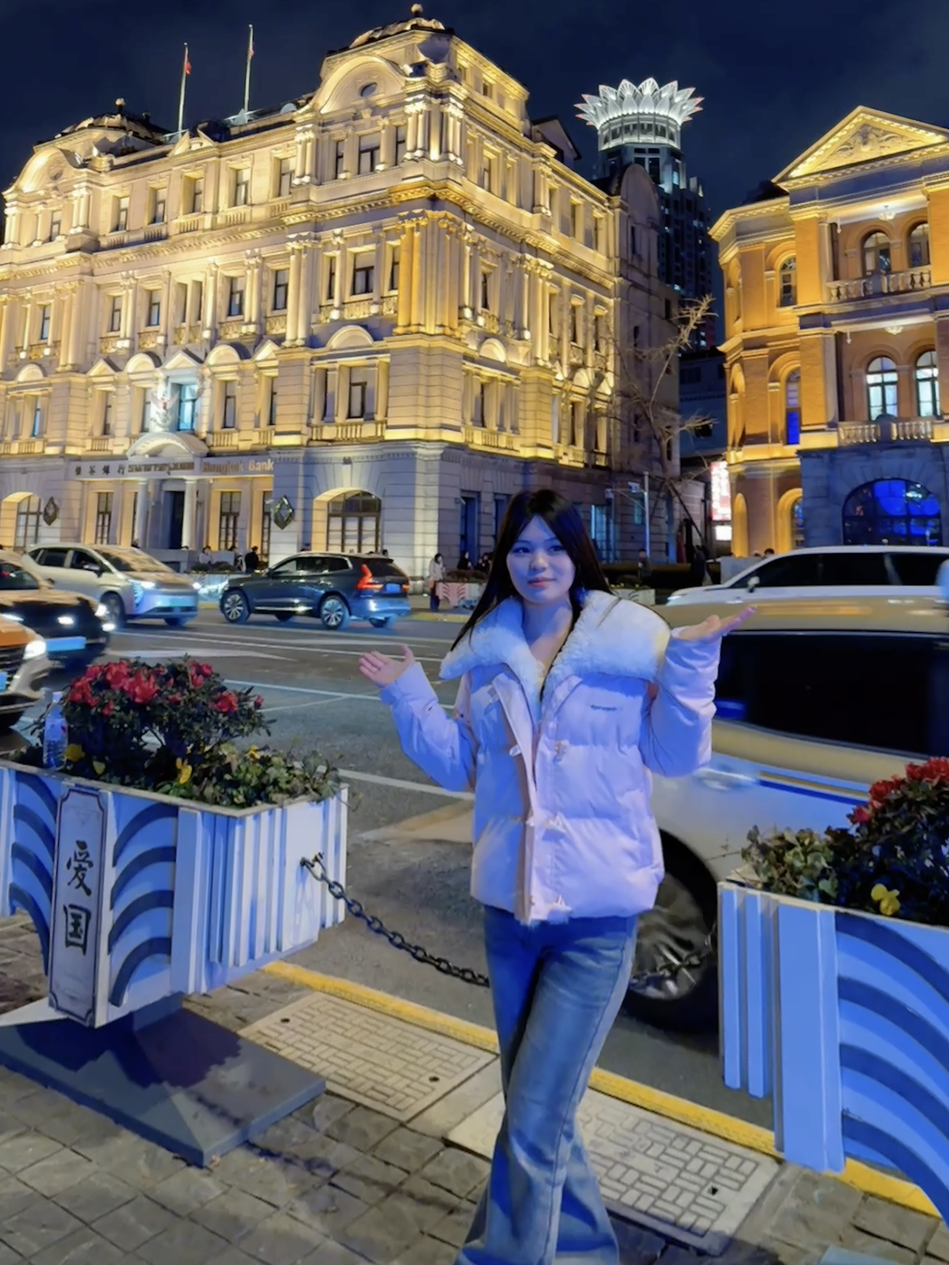
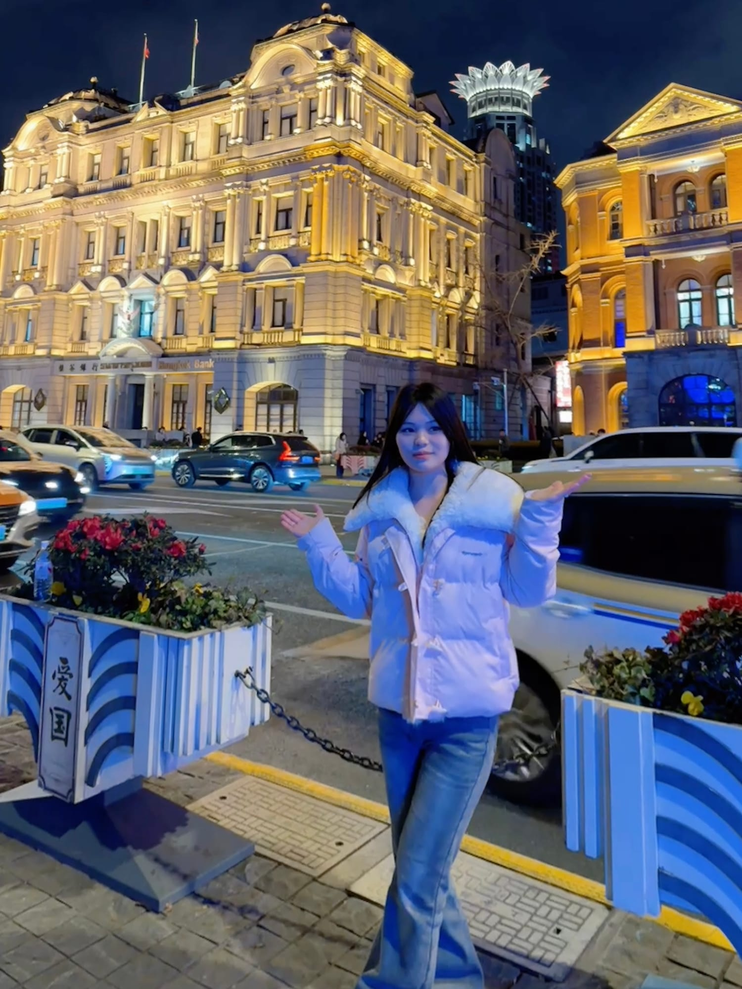
publish from local admin 2026-11-16 22:54

diff --git a/index.html b/index.html
@@ -1,1 +1,1 @@
-<!DOCTYPE html><html lang="zh-CN"><head><meta charset="utf-8"><meta name="viewport" content="width=device-width,initial-scale=1"><link rel="icon" type="image/svg+xml" href="/favicon.svg"><link rel="sitemap" href="/sitemap-index.xml"><link rel="alternate" type="application/rss+xml" title="李先森的个人网站" href="https://itfeier.cn/rss.xml"><meta name="generator" content="Astro v7.4.0"><meta name="theme-color" content="#f7f5f2"><link rel="canonical" href="https://itfeier.cn/"><title>李先森的个人网站</title><meta name="description" content="内容创作者 · 独立开发者 · 摄影爱好者。记录做产品的过程，也记录路上的光。"><meta property="og:type" content="website"><meta property="og:url" content="https://itfeier.cn/"><meta property="og:title" content="李先森的个人网站"><meta property="og:description" content="内容创作者 · 独立开发者 · 摄影爱好者。记录做产品的过程，也记录路上的光。"><meta name="twitter:card" content="summary"><link rel="stylesheet" href="/_astro/SiteLayout.CxbvPPfI.css"></head><body><header class="site-header" id="top"><div class="wrap header-inner"><a class="brand" href="/"><span class="brand-cn">李先森的个人网站</span><span class="brand-en">LI XIANSEN · JOURNAL</span></a><nav class="nav-desktop" aria-label="主导航"><a href="/" class="active" aria-current="page">首页</a><a href="/posts/">帖子</a><a href="/videos/">视频</a><a href="/albums/">相册</a><a href="/about/">关于</a></nav><details class="nav-mobile"><summary aria-label="打开导航菜单">菜单 <span class="burger" aria-hidden="true"></span></summary><nav aria-label="移动端导航"><a href="/" class="active" aria-current="page">首页</a><a href="/posts/">帖子</a><a href="/videos/">视频</a><a href="/albums/">相册</a><a href="/about/">关于</a></nav></details></div></header><main class="main-wide"><section class="hero wrap"><div class="hero-main"><p class="eyebrow">LI XIANSEN · JOURNAL / EST. 2012</p><h1>在产品和生活的缝隙里，持续写一点东西。</h1><p class="hero-sub">内容创作者 · 独立开发者 · 摄影爱好者。记录做产品的过程，也记录路上的光。</p></div><aside class="hero-side" aria-label="站点数据"><div class="portrait"><img src="/images/profile/avatar/mwjco0sb-ery1hy.png" alt="李先森 的头像"></div><dl class="stats"><div><dt>帖子</dt><dd>1</dd></div><div><dt>视频</dt><dd>1</dd></div><div><dt>相册</dt><dd>1</dd></div><div><dt>写作自</dt><dd>2012</dd></div></dl></aside></section><section class="section wrap" aria-labelledby="hot-title"><div class="section-head"><div><p class="eyebrow">01 / FEATURED</p><h2 id="hot-title">热门帖子</h2></div><a class="more" href="/posts/">全部帖子 →</a></div><div class="post-grid"><article class="post-card"><a href="/posts/13213/"><div class="art-cover art-mono" role="img" aria-label="三大什么的库拉索尼空对空"><svg viewBox="0 0 400 260" preserveAspectRatio="xMidYMid slice" aria-hidden="true" focusable="false"><defs><linearGradient id="art-mono-0-18od1t9" x1="0" y1="0" x2="1" y2="1"><stop offset="0%" stop-color="#e6e6e3"></stop><stop offset="100%" stop-color="#a9a9a4"></stop></linearGradient></defs><rect width="400" height="260" fill="url(#art-mono-0-18od1t9)"></rect><g><circle cx="200" cy="130" r="86" fill="#3f4548" opacity="0.5"></circle><circle cx="200" cy="130" r="56" fill="#fff" opacity="0.42"></circle><path d="M0 218 H400" stroke="#3f4548" stroke-width="1" opacity="0.5"></path><path d="M0 236 H400" stroke="#3f4548" stroke-width="1" opacity="0.35"></path></g></svg></div><h3>三大什么的库拉索尼空对空</h3><p class="excerpt">快捷键开发商尽可能的卡送监督卡</p><div class="card-foot"><span class="tags"></span><time datetime="2026-11-16T00:00:00.000Z">2026年11月16日</time></div></a></article></div></section><section class="section wrap" aria-labelledby="latest-title"><div class="section-head"><div><p class="eyebrow">02 / RECENT</p><h2 id="latest-title">最近上传</h2></div><a class="more" href="/videos/">更多视频 →</a></div><div class="media-grid"><article class="media-card"><a href="/images/videos/v-20261116-2210-0xv/mwjcc6uc-950jet.mp4" target="_blank" rel="noopener noreferrer"><div class="media-cover"><img src="/images/videos/v-20261116-2210-0xv/mwjccjk6-ic8pr9.png" alt="1" loading="lazy"><span class="play" aria-hidden="true">▶</span><span class="duration">24s</span></div><span class="kind">VIDEO</span><h3>1</h3><p class="excerpt">1</p><p class="plays"><time datetime="2026-11-16T00:00:00.000Z">2026年11月16日</time></p></a></article><article class="media-card"><a href="/albums/al-20261116-2053-wr4/"><div class="media-cover"><img src="/images/albums/al-20261116-2053-wr4/mwj9m4pg-ti4ysw.jpg" alt="宝贝" loading="lazy"><span class="count">15 张</span></div><span class="kind">ALBUM</span><h3>宝贝</h3><p class="excerpt">宝贝</p><p class="plays">上海 · 2026-01-01</p></a></article></div></section><section class="section wrap about-strip" aria-labelledby="about-strip-title"><div><p class="eyebrow">03 / ABOUT</p><h2 id="about-strip-title">认识我</h2><p>从 2022 年开始写博客，2023 年转做独立开发。写产品、写路，也写下快门那一刻的判断。这个站点用来存放那些值得被留下来的东西。</p><a class="cta" href="/about/">读完整介绍 →</a></div><div class="about-tags"><span class="tag">产品设计</span><span class="tag">前端开发</span><span class="tag">摄影</span><span class="tag">写作</span></div></section></main><footer class="site-footer"><div class="wrap"><div class="footer-top"><div><div class="footer-brand">李先森 <span>LI XIANSEN</span></div><p>内容创作者 · 独立开发者 · 摄影爱好者。记录做产品的过程，也记录路上的光。</p></div></div><div class="footer-bottom"><span>© 2026 李先森 LI XIANSEN，保留所有权利。</span><button type="button" class="back-to-top" id="back-to-top">返回顶部 ↑</button></div></div></footer><script type="module">document.querySelector(`#back-to-top`)?.addEventListener(`click`,()=>{window.scrollTo({top:0,behavior:`smooth`}),document.documentElement.scrollTo({top:0,behavior:`smooth`})});</script></body></html>
+<!DOCTYPE html><html lang="zh-CN"><head><meta charset="utf-8"><meta name="viewport" content="width=device-width,initial-scale=1"><link rel="icon" type="image/svg+xml" href="/favicon.svg"><link rel="sitemap" href="/sitemap-index.xml"><link rel="alternate" type="application/rss+xml" title="李先森的个人网站" href="https://itfeier.cn/rss.xml"><meta name="generator" content="Astro v7.4.0"><meta name="theme-color" content="#f7f5f2"><link rel="canonical" href="https://itfeier.cn/"><title>李先森的个人网站</title><meta name="description" content="内容创作者 · 独立开发者 · 摄影爱好者。记录做产品的过程，也记录路上的光。"><meta property="og:type" content="website"><meta property="og:url" content="https://itfeier.cn/"><meta property="og:title" content="李先森的个人网站"><meta property="og:description" content="内容创作者 · 独立开发者 · 摄影爱好者。记录做产品的过程，也记录路上的光。"><meta name="twitter:card" content="summary"><link rel="stylesheet" href="/_astro/SiteLayout.CxbvPPfI.css"></head><body><header class="site-header" id="top"><div class="wrap header-inner"><a class="brand" href="/"><span class="brand-cn">李先森的个人网站</span><span class="brand-en">LI XIANSEN · JOURNAL</span></a><nav class="nav-desktop" aria-label="主导航"><a href="/" class="active" aria-current="page">首页</a><a href="/posts/">帖子</a><a href="/videos/">视频</a><a href="/albums/">相册</a><a href="/about/">关于</a></nav><details class="nav-mobile"><summary aria-label="打开导航菜单">菜单 <span class="burger" aria-hidden="true"></span></summary><nav aria-label="移动端导航"><a href="/" class="active" aria-current="page">首页</a><a href="/posts/">帖子</a><a href="/videos/">视频</a><a href="/albums/">相册</a><a href="/about/">关于</a></nav></details></div></header><main class="main-wide"><section class="hero wrap"><div class="hero-main"><p class="eyebrow">LI XIANSEN · JOURNAL / EST. 2012</p><h1>在产品和生活的缝隙里，持续写一点东西。</h1><p class="hero-sub">内容创作者 · 独立开发者 · 摄影爱好者。记录做产品的过程，也记录路上的光。</p></div><aside class="hero-side" aria-label="站点数据"><div class="portrait"><img src="/images/profile/avatar/mwjco0sb-ery1hy.jpg" alt="李先森 的头像"></div><dl class="stats"><div><dt>帖子</dt><dd>1</dd></div><div><dt>视频</dt><dd>1</dd></div><div><dt>相册</dt><dd>1</dd></div><div><dt>写作自</dt><dd>2012</dd></div></dl></aside></section><section class="section wrap" aria-labelledby="hot-title"><div class="section-head"><div><p class="eyebrow">01 / FEATURED</p><h2 id="hot-title">热门帖子</h2></div><a class="more" href="/posts/">全部帖子 →</a></div><div class="post-grid"><article class="post-card"><a href="/posts/13213/"><div class="art-cover art-mono" role="img" aria-label="三大什么的库拉索尼空对空"><svg viewBox="0 0 400 260" preserveAspectRatio="xMidYMid slice" aria-hidden="true" focusable="false"><defs><linearGradient id="art-mono-0-18od1t9" x1="0" y1="0" x2="1" y2="1"><stop offset="0%" stop-color="#e6e6e3"></stop><stop offset="100%" stop-color="#a9a9a4"></stop></linearGradient></defs><rect width="400" height="260" fill="url(#art-mono-0-18od1t9)"></rect><g><circle cx="200" cy="130" r="86" fill="#3f4548" opacity="0.5"></circle><circle cx="200" cy="130" r="56" fill="#fff" opacity="0.42"></circle><path d="M0 218 H400" stroke="#3f4548" stroke-width="1" opacity="0.5"></path><path d="M0 236 H400" stroke="#3f4548" stroke-width="1" opacity="0.35"></path></g></svg></div><h3>三大什么的库拉索尼空对空</h3><p class="excerpt">快捷键开发商尽可能的卡送监督卡</p><div class="card-foot"><span class="tags"></span><time datetime="2026-11-16T00:00:00.000Z">2026年11月16日</time></div></a></article></div></section><section class="section wrap" aria-labelledby="latest-title"><div class="section-head"><div><p class="eyebrow">02 / RECENT</p><h2 id="latest-title">最近上传</h2></div><a class="more" href="/videos/">更多视频 →</a></div><div class="media-grid"><article class="media-card"><a href="/images/videos/v-20261116-2210-0xv/mwjcc6uc-950jet.mp4" target="_blank" rel="noopener noreferrer"><div class="media-cover"><img src="/images/videos/v-20261116-2210-0xv/mwjccjk6-ic8pr9.jpg" alt="1" loading="lazy"><span class="play" aria-hidden="true">▶</span><span class="duration">24s</span></div><span class="kind">VIDEO</span><h3>1</h3><p class="excerpt">1</p><p class="plays"><time datetime="2026-11-16T00:00:00.000Z">2026年11月16日</time></p></a></article><article class="media-card"><a href="/albums/al-20261116-2053-wr4/"><div class="media-cover"><img src="/images/albums/al-20261116-2053-wr4/mwj9m4pg-ti4ysw.jpg" alt="宝贝" loading="lazy"><span class="count">15 张</span></div><span class="kind">ALBUM</span><h3>宝贝</h3><p class="excerpt">宝贝</p><p class="plays">上海 · 2026-01-01</p></a></article></div></section><section class="section wrap about-strip" aria-labelledby="about-strip-title"><div><p class="eyebrow">03 / ABOUT</p><h2 id="about-strip-title">认识我</h2><p>从 2022 年开始写博客，2023 年转做独立开发。写产品、写路，也写下快门那一刻的判断。这个站点用来存放那些值得被留下来的东西。</p><a class="cta" href="/about/">读完整介绍 →</a></div><div class="about-tags"><span class="tag">产品设计</span><span class="tag">前端开发</span><span class="tag">摄影</span><span class="tag">写作</span></div></section></main><footer class="site-footer"><div class="wrap"><div class="footer-top"><div><div class="footer-brand">李先森 <span>LI XIANSEN</span></div><p>内容创作者 · 独立开发者 · 摄影爱好者。记录做产品的过程，也记录路上的光。</p></div></div><div class="footer-bottom"><span>© 2026 李先森 LI XIANSEN，保留所有权利。</span><button type="button" class="back-to-top" id="back-to-top">返回顶部 ↑</button></div></div></footer><script type="module">document.querySelector(`#back-to-top`)?.addEventListener(`click`,()=>{window.scrollTo({top:0,behavior:`smooth`}),document.documentElement.scrollTo({top:0,behavior:`smooth`})});</script></body></html>

diff --git a/videos/index.html b/videos/index.html
@@ -1,5 +1,5 @@
 <!DOCTYPE html><html lang="zh-CN"><head><meta charset="utf-8"><meta name="viewport" content="width=device-width,initial-scale=1"><link rel="icon" type="image/svg+xml" href="/favicon.svg"><link rel="sitemap" href="/sitemap-index.xml"><link rel="alternate" type="application/rss+xml" title="李先森的个人网站" href="https://itfeier.cn/rss.xml"><meta name="generator" content="Astro v7.4.0"><meta name="theme-color" content="#f7f5f2"><link rel="canonical" href="https://itfeier.cn/videos/"><title>视频 · 李先森的个人网站</title><meta name="description" content="骑行、工作台、东京的雨——用视频记录过程。"><meta property="og:type" content="website"><meta property="og:url" content="https://itfeier.cn/videos/"><meta property="og:title" content="视频 · 李先森的个人网站"><meta property="og:description" content="骑行、工作台、东京的雨——用视频记录过程。"><meta name="twitter:card" content="summary"><style>.video-poster[data-astro-cid-eqpscfe5]{object-fit:cover;width:100%;height:100%;display:block}.video-frame[data-astro-cid-eqpscfe5],.video-player[data-astro-cid-eqpscfe5]{aspect-ratio:16/9;background:#000;border:0;width:100%;display:block}.video-fallback[data-astro-cid-eqpscfe5]{text-align:center;padding:1.5rem 0}.video-fallback[data-astro-cid-eqpscfe5] .dialog-note[data-astro-cid-eqpscfe5]{word-break:break-all;margin-top:1rem;font-size:.8rem}
-</style><link rel="stylesheet" href="/_astro/SiteLayout.CxbvPPfI.css"></head><body><header class="site-header" id="top"><div class="wrap header-inner"><a class="brand" href="/"><span class="brand-cn">李先森的个人网站</span><span class="brand-en">LI XIANSEN · JOURNAL</span></a><nav class="nav-desktop" aria-label="主导航"><a href="/">首页</a><a href="/posts/">帖子</a><a href="/videos/" class="active" aria-current="page">视频</a><a href="/albums/">相册</a><a href="/about/">关于</a></nav><details class="nav-mobile"><summary aria-label="打开导航菜单">菜单 <span class="burger" aria-hidden="true"></span></summary><nav aria-label="移动端导航"><a href="/">首页</a><a href="/posts/">帖子</a><a href="/videos/" class="active" aria-current="page">视频</a><a href="/albums/">相册</a><a href="/about/">关于</a></nav></details></div></header><main class="main-wide"><section class="page-head wrap" data-astro-cid-eqpscfe5><p class="eyebrow" data-astro-cid-eqpscfe5>MOTION / 1 CLIPS</p><h1 data-astro-cid-eqpscfe5>视频</h1><p data-astro-cid-eqpscfe5>照片装不下的那部分，用视频留着。点击封面可播放。</p></section><section class="wrap video-grid" aria-label="视频列表" data-astro-cid-eqpscfe5><article class="video-card" data-astro-cid-eqpscfe5><button type="button" class="video-open" data-title="1" data-url="/images/videos/v-20261116-2210-0xv/mwjcc6uc-950jet.mp4" aria-label="播放 1" data-astro-cid-eqpscfe5><img class="video-poster" src="/images/videos/v-20261116-2210-0xv/mwjccjk6-ic8pr9.png" alt="1" loading="lazy" data-astro-cid-eqpscfe5><span class="play" aria-hidden="true" data-astro-cid-eqpscfe5>▶</span><span class="duration" data-astro-cid-eqpscfe5>24s</span></button><div class="video-info" data-astro-cid-eqpscfe5><h2 data-astro-cid-eqpscfe5>1</h2><p data-astro-cid-eqpscfe5>1</p><p class="plays" data-astro-cid-eqpscfe5><time datetime="2026-11-16T00:00:00.000Z">2026年11月16日</time></p></div></article></section><dialog class="media-dialog" id="video-dialog" aria-label="视频播放" data-astro-cid-eqpscfe5><div class="dialog-inner" data-astro-cid-eqpscfe5><div class="dialog-head" data-astro-cid-eqpscfe5><h2 id="dialog-title" data-astro-cid-eqpscfe5></h2><button type="button" class="dialog-close" aria-label="关闭" data-astro-cid-eqpscfe5>✕</button></div><div id="dialog-body" data-astro-cid-eqpscfe5></div></div></dialog></main><footer class="site-footer"><div class="wrap"><div class="footer-top"><div><div class="footer-brand">李先森 <span>LI XIANSEN</span></div><p>内容创作者 · 独立开发者 · 摄影爱好者。记录做产品的过程，也记录路上的光。</p></div></div><div class="footer-bottom"><span>© 2026 李先森 LI XIANSEN，保留所有权利。</span><button type="button" class="back-to-top" id="back-to-top">返回顶部 ↑</button></div></div></footer><script type="module">document.querySelector(`#back-to-top`)?.addEventListener(`click`,()=>{window.scrollTo({top:0,behavior:`smooth`}),document.documentElement.scrollTo({top:0,behavior:`smooth`})});</script></body></html><script type="module">var e=document.querySelector(`#video-dialog`),t=document.querySelector(`#dialog-title`),n=document.querySelector(`#dialog-body`),r=e=>e.replace(/[&<>"']/g,e=>({"&":`&amp;`,"<":`&lt;`,">":`&gt;`,'"':`&quot;`,"'":`&#39;`})[e]??e),i=e=>`<iframe class="video-frame" src="${r(e)}" frameborder="0" allow="autoplay; fullscreen; picture-in-picture" allowfullscreen referrerpolicy="no-referrer"></iframe>`;function a(e){let t=e.trim();if(!t)return null;let n;try{n=new URL(t,location.href)}catch{return null}let a=n.hostname.toLowerCase().replace(/^www\./,``),o=n.href;if(/\.(mp4|webm|ogg|m4v|mov)(\?|$)/i.test(t))return`<video class="video-player" controls playsinline preload="metadata" src="${r(o)}">您的浏览器不支持视频播放。</video>`;if(a.includes(`bilibili.com`)||a.includes(`b23.tv`)){let e=o.match(/(BV[0-9A-Za-z]{10})/)?.[1]??(o.match(/\/av(\d+)/)?.[1]?`av${o.match(/\/av(\d+)/)[1]}`:null);return e?i(`https://player.bilibili.com/player.html?bvid=${encodeURIComponent(e)}&high_quality=1&danmaku=0`):null}if(a.includes(`youtube.com`)||a.includes(`youtu.be`)){let e=n.searchParams.get(`v`)??o.match(/(?:youtu\.be\/|youtube\.com\/(?:embed\/|shorts\/))([-\w]{11})/)?.[1];return e?i(`https://www.youtube-nocookie.com/embed/${encodeURIComponent(e)}`):null}if(a.includes(`qq.com`)){let e=o.match(/\/([a-zA-Z0-9]{11})\.html/)?.[1]??n.searchParams.get(`vid`);return e?i(`https://v.qq.com/txp/iframe/player.html?vid=${encodeURIComponent(e)}`):null}if(a.includes(`youku.com`)){let e=o.match(/\/id_([a-zA-Z0-9=]+)/)?.[1];return e?i(`https://player.youku.com/embed/${encodeURIComponent(e)}`):null}if(a.includes(`ixigua.com`)){let e=o.match(/\/video\/(\d+)/)?.[1];return e?i(`https://www.ixigua.com/iframe/${encodeURIComponent(e)}`):null}return null}document.querySelectorAll(`.video-open`).forEach(i=>{i.addEventListener(`click`,()=>{let o=i.dataset.url??``;t&&(t.textContent=i.dataset.title??``),n&&(n.innerHTML=a(o)||(o?`<div class="video-fallback">
+</style><link rel="stylesheet" href="/_astro/SiteLayout.CxbvPPfI.css"></head><body><header class="site-header" id="top"><div class="wrap header-inner"><a class="brand" href="/"><span class="brand-cn">李先森的个人网站</span><span class="brand-en">LI XIANSEN · JOURNAL</span></a><nav class="nav-desktop" aria-label="主导航"><a href="/">首页</a><a href="/posts/">帖子</a><a href="/videos/" class="active" aria-current="page">视频</a><a href="/albums/">相册</a><a href="/about/">关于</a></nav><details class="nav-mobile"><summary aria-label="打开导航菜单">菜单 <span class="burger" aria-hidden="true"></span></summary><nav aria-label="移动端导航"><a href="/">首页</a><a href="/posts/">帖子</a><a href="/videos/" class="active" aria-current="page">视频</a><a href="/albums/">相册</a><a href="/about/">关于</a></nav></details></div></header><main class="main-wide"><section class="page-head wrap" data-astro-cid-eqpscfe5><p class="eyebrow" data-astro-cid-eqpscfe5>MOTION / 1 CLIPS</p><h1 data-astro-cid-eqpscfe5>视频</h1><p data-astro-cid-eqpscfe5>照片装不下的那部分，用视频留着。点击封面可播放。</p></section><section class="wrap video-grid" aria-label="视频列表" data-astro-cid-eqpscfe5><article class="video-card" data-astro-cid-eqpscfe5><button type="button" class="video-open" data-title="1" data-url="/images/videos/v-20261116-2210-0xv/mwjcc6uc-950jet.mp4" aria-label="播放 1" data-astro-cid-eqpscfe5><img class="video-poster" src="/images/videos/v-20261116-2210-0xv/mwjccjk6-ic8pr9.jpg" alt="1" loading="lazy" data-astro-cid-eqpscfe5><span class="play" aria-hidden="true" data-astro-cid-eqpscfe5>▶</span><span class="duration" data-astro-cid-eqpscfe5>24s</span></button><div class="video-info" data-astro-cid-eqpscfe5><h2 data-astro-cid-eqpscfe5>1</h2><p data-astro-cid-eqpscfe5>1</p><p class="plays" data-astro-cid-eqpscfe5><time datetime="2026-11-16T00:00:00.000Z">2026年11月16日</time></p></div></article></section><dialog class="media-dialog" id="video-dialog" aria-label="视频播放" data-astro-cid-eqpscfe5><div class="dialog-inner" data-astro-cid-eqpscfe5><div class="dialog-head" data-astro-cid-eqpscfe5><h2 id="dialog-title" data-astro-cid-eqpscfe5></h2><button type="button" class="dialog-close" aria-label="关闭" data-astro-cid-eqpscfe5>✕</button></div><div id="dialog-body" data-astro-cid-eqpscfe5></div></div></dialog></main><footer class="site-footer"><div class="wrap"><div class="footer-top"><div><div class="footer-brand">李先森 <span>LI XIANSEN</span></div><p>内容创作者 · 独立开发者 · 摄影爱好者。记录做产品的过程，也记录路上的光。</p></div></div><div class="footer-bottom"><span>© 2026 李先森 LI XIANSEN，保留所有权利。</span><button type="button" class="back-to-top" id="back-to-top">返回顶部 ↑</button></div></div></footer><script type="module">document.querySelector(`#back-to-top`)?.addEventListener(`click`,()=>{window.scrollTo({top:0,behavior:`smooth`}),document.documentElement.scrollTo({top:0,behavior:`smooth`})});</script></body></html><script type="module">var e=document.querySelector(`#video-dialog`),t=document.querySelector(`#dialog-title`),n=document.querySelector(`#dialog-body`),r=e=>e.replace(/[&<>"']/g,e=>({"&":`&amp;`,"<":`&lt;`,">":`&gt;`,'"':`&quot;`,"'":`&#39;`})[e]??e),i=e=>`<iframe class="video-frame" src="${r(e)}" frameborder="0" allow="autoplay; fullscreen; picture-in-picture" allowfullscreen referrerpolicy="no-referrer"></iframe>`;function a(e){let t=e.trim();if(!t)return null;let n;try{n=new URL(t,location.href)}catch{return null}let a=n.hostname.toLowerCase().replace(/^www\./,``),o=n.href;if(/\.(mp4|webm|ogg|m4v|mov)(\?|$)/i.test(t))return`<video class="video-player" controls playsinline preload="metadata" src="${r(o)}">您的浏览器不支持视频播放。</video>`;if(a.includes(`bilibili.com`)||a.includes(`b23.tv`)){let e=o.match(/(BV[0-9A-Za-z]{10})/)?.[1]??(o.match(/\/av(\d+)/)?.[1]?`av${o.match(/\/av(\d+)/)[1]}`:null);return e?i(`https://player.bilibili.com/player.html?bvid=${encodeURIComponent(e)}&high_quality=1&danmaku=0`):null}if(a.includes(`youtube.com`)||a.includes(`youtu.be`)){let e=n.searchParams.get(`v`)??o.match(/(?:youtu\.be\/|youtube\.com\/(?:embed\/|shorts\/))([-\w]{11})/)?.[1];return e?i(`https://www.youtube-nocookie.com/embed/${encodeURIComponent(e)}`):null}if(a.includes(`qq.com`)){let e=o.match(/\/([a-zA-Z0-9]{11})\.html/)?.[1]??n.searchParams.get(`vid`);return e?i(`https://v.qq.com/txp/iframe/player.html?vid=${encodeURIComponent(e)}`):null}if(a.includes(`youku.com`)){let e=o.match(/\/id_([a-zA-Z0-9=]+)/)?.[1];return e?i(`https://player.youku.com/embed/${encodeURIComponent(e)}`):null}if(a.includes(`ixigua.com`)){let e=o.match(/\/video\/(\d+)/)?.[1];return e?i(`https://www.ixigua.com/iframe/${encodeURIComponent(e)}`):null}return null}document.querySelectorAll(`.video-open`).forEach(i=>{i.addEventListener(`click`,()=>{let o=i.dataset.url??``;t&&(t.textContent=i.dataset.title??``),n&&(n.innerHTML=a(o)||(o?`<div class="video-fallback">
 					<p>该平台视频不支持站内直接播放，点下方按钮前往原平台观看：</p>
 					<a class="btn primary" href="${r(o)}" target="_blank" rel="noopener noreferrer">前往观看 ↗</a>
 					<p class="dialog-note">链接：${r(o)}</p></div>`:`<p class="dialog-note">这条视频还没绑定播放地址。在后台「视频 → 编辑 → 播放地址」填入 B站/腾讯/优酷/抖音/YouTube 链接或 mp4 直链即可。</p>`)),e?.showModal()})}),e?.querySelector(`.dialog-close`)?.addEventListener(`click`,()=>e.close()),e?.addEventListener(`click`,t=>{t.target===e&&e.close()}),e?.addEventListener(`close`,()=>{n&&(n.innerHTML=``)});</script>

diff --git a/about/index.html b/about/index.html
@@ -1,1 +1,1 @@
-<!DOCTYPE html><html lang="zh-CN"><head><meta charset="utf-8"><meta name="viewport" content="width=device-width,initial-scale=1"><link rel="icon" type="image/svg+xml" href="/favicon.svg"><link rel="sitemap" href="/sitemap-index.xml"><link rel="alternate" type="application/rss+xml" title="李先森的个人网站" href="https://itfeier.cn/rss.xml"><meta name="generator" content="Astro v7.4.0"><meta name="theme-color" content="#f7f5f2"><link rel="canonical" href="https://itfeier.cn/about/"><title>关于 · 李先森的个人网站</title><meta name="description" content="关于 李先森：内容创作者 · 独立开发者 · 摄影爱好者"><meta property="og:type" content="website"><meta property="og:url" content="https://itfeier.cn/about/"><meta property="og:title" content="关于 · 李先森的个人网站"><meta property="og:description" content="关于 李先森：内容创作者 · 独立开发者 · 摄影爱好者"><meta name="twitter:card" content="summary"><link rel="stylesheet" href="/_astro/SiteLayout.CxbvPPfI.css"></head><body><header class="site-header" id="top"><div class="wrap header-inner"><a class="brand" href="/"><span class="brand-cn">李先森的个人网站</span><span class="brand-en">LI XIANSEN · JOURNAL</span></a><nav class="nav-desktop" aria-label="主导航"><a href="/">首页</a><a href="/posts/">帖子</a><a href="/videos/">视频</a><a href="/albums/">相册</a><a href="/about/" class="active" aria-current="page">关于</a></nav><details class="nav-mobile"><summary aria-label="打开导航菜单">菜单 <span class="burger" aria-hidden="true"></span></summary><nav aria-label="移动端导航"><a href="/">首页</a><a href="/posts/">帖子</a><a href="/videos/">视频</a><a href="/albums/">相册</a><a href="/about/" class="active" aria-current="page">关于</a></nav></details></div></header><main class="main-wide"><section class="wrap about-page"><div class="about-intro"><p class="eyebrow">ABOUT / LI XIANSEN</p><h1>李先森 <span>LI XIANSEN</span></h1><p class="about-lead">内容创作者 · 独立开发者 · 摄影爱好者</p><p>我是李先森，一个在杭州和上海之间来回的人。白天写代码和文档，晚上整理白天拍的照片，周末要么在骑车，要么在去骑车的路上。</p><p>2022 年开始做内容，起初只是给自己的项目写复盘，后来发现「把过程写下来」本身就是产品的一部分：它逼你把模糊的判断说清楚。</p><p>2023 年离开大厂转做独立开发，做过两个小产品，一个还活着。这个站点是我的公开工作台，不是作品集陈列柜。</p><div class="about-contact"><a class="cta" href="mailto:935624248@qq.com">935624248@qq.com</a></div></div><aside class="about-aside"><img class="about-avatar about-portrait" src="/images/profile/avatar/mwjco0sb-ery1hy.png" alt="李先森 的头像"><dl class="fact-list"><div><dt>常驻</dt><dd>上海 / 杭州</dd></div><div><dt>开始写作</dt><dd>2012</dd></div><div><dt>相机</dt><dd>一台胶片 + 一台数码</dd></div><div><dt>电脑</dt><dd>14 寸，够用就好</dd></div><div><dt>常驻</dt><dd>上海 / 杭州</dd></div></dl></aside></section><section class="section wrap" aria-labelledby="skills-title"><div class="section-head"><div><p class="eyebrow">01 / SKILLS</p><h2 id="skills-title">在做的事</h2></div></div><div class="skill-list"><span class="tag">产品设计</span><span class="tag">前端开发</span><span class="tag">摄影</span><span class="tag">写作</span></div></section><section class="section wrap" aria-labelledby="timeline-title"><div class="section-head"><div><p class="eyebrow">02 / TIMELINE</p><h2 id="timeline-title">时间线</h2></div></div><ol class="timeline"><li><span class="year">2022</span><p>开始写公开博客，第一篇是《我为什么不再追热点》。</p></li><li><span class="year">2023</span><p>从大厂辞职，转做独立开发，接第一个外包。</p></li><li><span class="year">2024</span><p>发布第一个独立产品，月收入覆盖房租。</p></li><li><span class="year">2026</span><p>现在的状态：一半时间做产品，一半时间在路上。</p></li></ol></section></main><footer class="site-footer"><div class="wrap"><div class="footer-top"><div><div class="footer-brand">李先森 <span>LI XIANSEN</span></div><p>内容创作者 · 独立开发者 · 摄影爱好者。记录做产品的过程，也记录路上的光。</p></div></div><div class="footer-bottom"><span>© 2026 李先森 LI XIANSEN，保留所有权利。</span><button type="button" class="back-to-top" id="back-to-top">返回顶部 ↑</button></div></div></footer><script type="module">document.querySelector(`#back-to-top`)?.addEventListener(`click`,()=>{window.scrollTo({top:0,behavior:`smooth`}),document.documentElement.scrollTo({top:0,behavior:`smooth`})});</script></body></html>
+<!DOCTYPE html><html lang="zh-CN"><head><meta charset="utf-8"><meta name="viewport" content="width=device-width,initial-scale=1"><link rel="icon" type="image/svg+xml" href="/favicon.svg"><link rel="sitemap" href="/sitemap-index.xml"><link rel="alternate" type="application/rss+xml" title="李先森的个人网站" href="https://itfeier.cn/rss.xml"><meta name="generator" content="Astro v7.4.0"><meta name="theme-color" content="#f7f5f2"><link rel="canonical" href="https://itfeier.cn/about/"><title>关于 · 李先森的个人网站</title><meta name="description" content="关于 李先森：内容创作者 · 独立开发者 · 摄影爱好者"><meta property="og:type" content="website"><meta property="og:url" content="https://itfeier.cn/about/"><meta property="og:title" content="关于 · 李先森的个人网站"><meta property="og:description" content="关于 李先森：内容创作者 · 独立开发者 · 摄影爱好者"><meta name="twitter:card" content="summary"><link rel="stylesheet" href="/_astro/SiteLayout.CxbvPPfI.css"></head><body><header class="site-header" id="top"><div class="wrap header-inner"><a class="brand" href="/"><span class="brand-cn">李先森的个人网站</span><span class="brand-en">LI XIANSEN · JOURNAL</span></a><nav class="nav-desktop" aria-label="主导航"><a href="/">首页</a><a href="/posts/">帖子</a><a href="/videos/">视频</a><a href="/albums/">相册</a><a href="/about/" class="active" aria-current="page">关于</a></nav><details class="nav-mobile"><summary aria-label="打开导航菜单">菜单 <span class="burger" aria-hidden="true"></span></summary><nav aria-label="移动端导航"><a href="/">首页</a><a href="/posts/">帖子</a><a href="/videos/">视频</a><a href="/albums/">相册</a><a href="/about/" class="active" aria-current="page">关于</a></nav></details></div></header><main class="main-wide"><section class="wrap about-page"><div class="about-intro"><p class="eyebrow">ABOUT / LI XIANSEN</p><h1>李先森 <span>LI XIANSEN</span></h1><p class="about-lead">内容创作者 · 独立开发者 · 摄影爱好者</p><p>我是李先森，一个在杭州和上海之间来回的人。白天写代码和文档，晚上整理白天拍的照片，周末要么在骑车，要么在去骑车的路上。</p><p>2022 年开始做内容，起初只是给自己的项目写复盘，后来发现「把过程写下来」本身就是产品的一部分：它逼你把模糊的判断说清楚。</p><p>2023 年离开大厂转做独立开发，做过两个小产品，一个还活着。这个站点是我的公开工作台，不是作品集陈列柜。</p><div class="about-contact"><a class="cta" href="mailto:935624248@qq.com">935624248@qq.com</a></div></div><aside class="about-aside"><img class="about-avatar about-portrait" src="/images/profile/avatar/mwjco0sb-ery1hy.jpg" alt="李先森 的头像"><dl class="fact-list"><div><dt>常驻</dt><dd>上海 / 杭州</dd></div><div><dt>开始写作</dt><dd>2012</dd></div><div><dt>相机</dt><dd>一台胶片 + 一台数码</dd></div><div><dt>电脑</dt><dd>14 寸，够用就好</dd></div><div><dt>常驻</dt><dd>上海 / 杭州</dd></div></dl></aside></section><section class="section wrap" aria-labelledby="skills-title"><div class="section-head"><div><p class="eyebrow">01 / SKILLS</p><h2 id="skills-title">在做的事</h2></div></div><div class="skill-list"><span class="tag">产品设计</span><span class="tag">前端开发</span><span class="tag">摄影</span><span class="tag">写作</span></div></section><section class="section wrap" aria-labelledby="timeline-title"><div class="section-head"><div><p class="eyebrow">02 / TIMELINE</p><h2 id="timeline-title">时间线</h2></div></div><ol class="timeline"><li><span class="year">2022</span><p>开始写公开博客，第一篇是《我为什么不再追热点》。</p></li><li><span class="year">2023</span><p>从大厂辞职，转做独立开发，接第一个外包。</p></li><li><span class="year">2024</span><p>发布第一个独立产品，月收入覆盖房租。</p></li><li><span class="year">2026</span><p>现在的状态：一半时间做产品，一半时间在路上。</p></li></ol></section></main><footer class="site-footer"><div class="wrap"><div class="footer-top"><div><div class="footer-brand">李先森 <span>LI XIANSEN</span></div><p>内容创作者 · 独立开发者 · 摄影爱好者。记录做产品的过程，也记录路上的光。</p></div></div><div class="footer-bottom"><span>© 2026 李先森 LI XIANSEN，保留所有权利。</span><button type="button" class="back-to-top" id="back-to-top">返回顶部 ↑</button></div></div></footer><script type="module">document.querySelector(`#back-to-top`)?.addEventListener(`click`,()=>{window.scrollTo({top:0,behavior:`smooth`}),document.documentElement.scrollTo({top:0,behavior:`smooth`})});</script></body></html>
